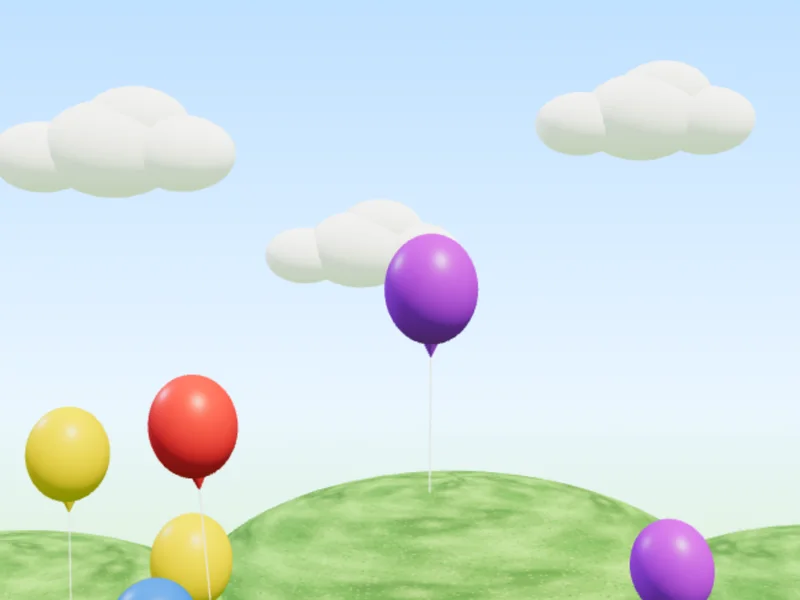
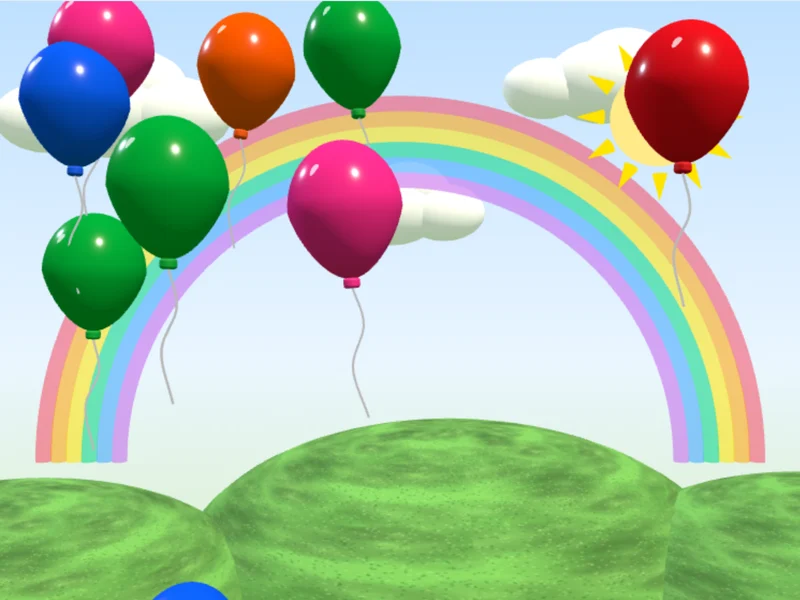
3D пішіндер, шарлар, артығын анықта, пішіндер қаласы: қанық түстер, жаңа модельдер
Claude-Session: https://claude.ai/code/session_01JwVscDKs5Ms9sQhpVNECAf

diff --git a/games.html b/games.html
@@ -1005,17 +1005,20 @@ function clouds(S, list) { const T = S.T, m = new T.MeshStandardMaterial({ color
   list.forEach(([x, y, z], i) => { const c = new T.Group(); [[0, 0, 0, .9], [.9, -.1, .1, .7], [-.9, -.15, 0, .65], [.3, .45, 0, .7]].forEach(([a, b, d, r]) => { const s = new T.Mesh(new T.SphereGeometry(r, 18, 12), m); s.position.set(a, b, d); c.add(s); }); c.position.set(x, y, z); c.scale.set(1.3, .9, .9); S.scene.add(c); const x0 = x, ph = i * 2;
     S.anim(() => { c.position.x = x0 + Math.sin(performance.now() / 6000 + ph) * 1.2; }); }); }
 function rnd0(a, b) { return a + Math.random() * (b - a); }
+
+function bevCyl(T, r, h, b = .07) { const pts = [new T.Vector2(0, -h / 2)]; for (let i = 0; i <= 6; i++) { const a = -Math.PI / 2 + i / 6 * Math.PI / 2; pts.push(new T.Vector2(r - b + Math.cos(a) * b, -h / 2 + b + Math.sin(a) * b)); } for (let i = 0; i <= 6; i++) { const a = i / 6 * Math.PI / 2; pts.push(new T.Vector2(r - b + Math.cos(a) * b, h / 2 - b + Math.sin(a) * b)); } pts.push(new T.Vector2(0, h / 2)); return new T.LatheGeometry(pts, 64); }
+function bevCone(T, r, h, seg, b = .06) { const pts = [new T.Vector2(0, -h / 2)]; for (let i = 0; i <= 6; i++) { const a = -Math.PI / 2 + i / 6 * Math.PI * .62; pts.push(new T.Vector2(r - b + Math.cos(a) * b, -h / 2 + b + Math.sin(a) * b)); } pts.push(new T.Vector2(.035, h / 2 - .03), new T.Vector2(0, h / 2)); const g = new T.LatheGeometry(pts, seg); if (seg === 4) g.rotateY(Math.PI / 4); g.computeVertexNormals(); return g; }
 function make3D(host, opts = {}) {
   if (!window.THREE) { host.append(el('div', { class: 'nogl' }, '3D бұл құрылғыда ашылмады 😔')); return null; }
   const T = THREE; let renderer;
   try { renderer = new T.WebGLRenderer({ antialias: true, alpha: true, powerPreference: 'high-performance' }); } catch (e) { host.append(el('div', { class: 'nogl' }, '3D бұл құрылғыда ашылмады 😔')); return null; }
   renderer.setPixelRatio(Math.min(devicePixelRatio || 1, LQ ? 1 : 2)); renderer.shadowMap.enabled = !LQ; renderer.shadowMap.type = T.PCFSoftShadowMap;
-  renderer.outputEncoding = T.sRGBEncoding; renderer.toneMapping = T.ACESFilmicToneMapping; renderer.toneMappingExposure = 1.08;
+  renderer.outputEncoding = T.sRGBEncoding; if (opts.vivid) { renderer.toneMapping = T.NoToneMapping; } else { renderer.toneMapping = T.ACESFilmicToneMapping; renderer.toneMappingExposure = 1.08; }
   host.append(renderer.domElement);
   const scene = new T.Scene(); if (!LQ) scene.environment = envMap(T, renderer);
   const cam = new T.PerspectiveCamera(opts.fov || 40, 1, .1, 120); cam.position.set(...(opts.cam || [0, 3.2, 7.5])); cam.lookAt(...(opts.look || [0, 1, 0]));
-  scene.add(new T.HemisphereLight(lin(T, 0xeaf4ff), lin(T, 0x9ccf7c), .55));
-  const sun = new T.DirectionalLight(lin(T, 0xfff3dd), 1.15); sun.position.set(4, 9, 6); sun.castShadow = !LQ; sun.shadow.mapSize.set(2048, 2048); sun.shadow.bias = -.0004; sun.shadow.normalBias = .02; Object.assign(sun.shadow.camera, { left: -9, right: 9, top: 9, bottom: -9, near: 1, far: 30 }); scene.add(sun);
+  scene.add(new T.HemisphereLight(lin(T, 0xeaf4ff), lin(T, 0x9ccf7c), opts.vivid ? .42 : .55));
+  const sun = new T.DirectionalLight(lin(T, 0xfff3dd), opts.vivid ? .95 : 1.15); sun.position.set(4, 9, 6); sun.castShadow = !LQ; sun.shadow.mapSize.set(2048, 2048); sun.shadow.bias = -.0004; sun.shadow.normalBias = .02; Object.assign(sun.shadow.camera, { left: -9, right: 9, top: 9, bottom: -9, near: 1, far: 30 }); scene.add(sun);
   const fill = new T.DirectionalLight(lin(T, 0xcfe4ff), .35); fill.position.set(-6, 4, -3); scene.add(fill);
   if (!GRASS) GRASS = grassTex(T);
   const R = opts.groundR || 5;
@@ -1043,7 +1046,7 @@ function make3D(host, opts = {}) {
     const t = (now - t0) / 1000; if (intro < 1) { intro = Math.min(1, (now - introT) / 1100); placeCam(); }
     world.rotation.y += (rotY - world.rotation.y) * .15; world.rotation.x += (rotX - world.rotation.x) * .15;
     anims = anims.filter(a => a(t) !== false); renderer.render(scene, cam); requestAnimationFrame(loop); })(t0);
-  const mat = c => LQ ? new T.MeshStandardMaterial({ color: lin(T, c), roughness: .38, metalness: 0 }) : new T.MeshPhysicalMaterial({ color: lin(T, c), roughness: .3, metalness: 0, clearcoat: .7, clearcoatRoughness: .22, envMapIntensity: .9 });
+  const mat = c => LQ ? new T.MeshStandardMaterial({ color: lin(T, c), roughness: .38, metalness: 0 }) : opts.vivid ? new T.MeshPhysicalMaterial({ color: lin(T, c), roughness: .32, metalness: 0, clearcoat: 1, clearcoatRoughness: .06, envMapIntensity: .32 }) : new T.MeshPhysicalMaterial({ color: lin(T, c), roughness: .3, metalness: 0, clearcoat: .7, clearcoatRoughness: .22, envMapIntensity: .9 });
   const mesh = (geo, c, pos = [0, 0, 0]) => { const m = new T.Mesh(geo, mat(c)); m.position.set(...pos); m.castShadow = true; m.receiveShadow = true; return m; };
   const S = { T, scene, cam, world, mesh, mat, setPick: p => pick = p, tap: f => onTap = f, anim: f => anims.push(f), host, lin: c => lin(T, c), grass: (rep = 4) => { const t = GRASS.clone(); t.needsUpdate = true; t.repeat.set(rep, rep); return new T.MeshStandardMaterial({ color: 0xffffff, map: t, roughness: .95 }); } }; window._s3 = S;
   if (opts.ground !== false && opts.decor !== false) decorate(S, R);
@@ -1055,17 +1058,17 @@ const wiggle = (S, o) => { const st = performance.now(), r0 = o.rotation.z; S.an
 
 /* --- 3D пішіндерді тап --- */
 const SH3 = [
-  { k: 'sphere', l: 'Шар', acc: 'Шарды', g: T => new T.SphereGeometry(.55, 48, 32), y: .55 },
-  { k: 'cube', l: 'Текше', acc: 'Текшені', g: T => rbox(T, .95, .95, .95), y: .48 },
-  { k: 'cyl', l: 'Цилиндр', acc: 'Цилиндрді', g: T => new T.CylinderGeometry(.45, .45, 1.05, 48), y: .53 },
-  { k: 'cone', l: 'Конус', acc: 'Конусты', g: T => new T.ConeGeometry(.55, 1.15, 48), y: .58 },
-  { k: 'pyr', l: 'Пирамида', acc: 'Пирамиданы', g: T => new T.ConeGeometry(.72, 1.05, 4), y: .53 },
+  { k: 'sphere', l: 'Шар', acc: 'Шарды', g: T => new T.SphereGeometry(.55, 64, 48), y: .55 },
+  { k: 'cube', l: 'Текше', acc: 'Текшені', g: T => rbox(T, .95, .95, .95, .1), y: .48 },
+  { k: 'cyl', l: 'Цилиндр', acc: 'Цилиндрді', g: T => bevCyl(T, .45, 1.05), y: .53 },
+  { k: 'cone', l: 'Конус', acc: 'Конусты', g: T => bevCone(T, .55, 1.15, 64), y: .58 },
+  { k: 'pyr', l: 'Пирамида', acc: 'Пирамиданы', g: T => bevCone(T, .72, 1.05, 4), y: .53 },
 ];
-const C3 = [[0xef4444, 'Қызыл'], [0x3b82f6, 'Көк'], [0xfacc15, 'Сары'], [0x22c55e, 'Жасыл'], [0xa855f7, 'Күлгін']];
+const C3 = [[0xe8101e, 'Қызыл'], [0x0a5cff, 'Көк'], [0xffc400, 'Сары'], [0x00a83a, 'Жасыл'], [0x8a1fd6, 'Күлгін']];
 function g3Shapes() {
   const b = body(); const host = el('div', { class: 'c3' }, el('div', { class: 'hint3' }, '👆 Басып таңда · сүйреп айналдыр')); const m = el('div', { class: 'msg' }, '');
   const prog = el('div', { class: 'prog' }, el('i')); b.append(m, prog, host);
-  const S = make3D(host, { cam: [0, 2.7, 6.2], look: [0, .55, 0] }); if (!S) return; window._s3 = S;
+  const S = make3D(host, { cam: [0, 2.5, 6.0], look: [0, .6, 0], vivid: 1 }); if (!S) return; window._s3 = S;
   const R = 6; let r = 0, objs = [];
   function round() {
     prog.firstChild.style.width = (r / R * 100) + '%'; if (r >= R) { win('Пішіндерді жақсы білесің! 🔷'); return; }
@@ -1168,11 +1171,11 @@ const rootOf = o => { while (o && !(o.userData && o.userData.id) && o.parent) o 
 const rnd = (a, b) => a + Math.random() * (b - a);
 const pickOne = a => a[Math.random() * a.length | 0];
 const hex6 = c => '#' + c.toString(16).padStart(6, '0');
-const CL = [[0xef4444, 'Қызыл'], [0x3b82f6, 'Көк'], [0xfacc15, 'Сары'], [0x22c55e, 'Жасыл'], [0xa855f7, 'Күлгін'], [0xff7a1a, 'Қызғылт сары'], [0xff8ac2, 'Қызғылт']];
+const CL = [[0xe8101e, 'Қызыл'], [0x0a5cff, 'Көк'], [0xffc400, 'Сары'], [0x00a83a, 'Жасыл'], [0x8a1fd6, 'Күлгін'], [0xff5a00, 'Қызғылт сары'], [0xff2d95, 'Қызғылт']];
 const SHN = { sphere: ['Шар', 'шарды'], cube: ['Текше', 'текшені'], cyl: ['Цилиндр', 'цилиндрді'], cone: ['Конус', 'конусты'], pyr: ['Пирамида', 'пирамиданы'] };
 const SHK = Object.keys(SHN);
 const SHY = { sphere: .5, cube: .43, cyl: .48, cone: .5, pyr: .48 };
-function shapeGeo(T, k) { return ({ sphere: () => new T.SphereGeometry(.5, 40, 28), cube: () => rbox(T, .86, .86, .86), cyl: () => new T.CylinderGeometry(.42, .42, .96, 40), cone: () => new T.ConeGeometry(.5, 1, 40), pyr: () => new T.ConeGeometry(.64, .96, 4) })[k](); }
+function shapeGeo(T, k) { return ({ sphere: () => new T.SphereGeometry(.5, 64, 48), cube: () => rbox(T, .86, .86, .86, .09), cyl: () => bevCyl(T, .42, .96), cone: () => bevCone(T, .5, 1, 64), pyr: () => bevCone(T, .64, .96, 4) })[k](); }
 function toy(S, k, c, id) { const g = new S.T.Group(); const m = S.mesh(shapeGeo(S.T, k), c); m.position.y = SHY[k]; g.add(m); g.userData = { id: id || k, k, c }; return g; }
 function setColor(g, c) { g.traverse(o => { if (o.isMesh && !o.userData.keep) o.material.color.copy(new THREE.Color(c).convertSRGBToLinear()); }); g.userData.c = c; }
 function starGeo(T, r = .35) { const s = new T.Shape(); for (let i = 0; i < 10; i++) { const a = i / 10 * Math.PI * 2 - Math.PI / 2, rr = i % 2 ? r * .45 : r; const x = Math.cos(a) * rr, y = Math.sin(a) * rr; i ? s.lineTo(x, y) : s.moveTo(x, y); } return new T.ExtrudeGeometry(s, { depth: .14, bevelEnabled: true, bevelSize: .04, bevelThickness: .04, bevelSegments: 2 }); }
@@ -1186,12 +1189,13 @@ function popFx(S, pos, c) { const T = S.T; for (let i = 0; i < 10; i++) { const 
 
 /* ---------- 1. Түсін тап: шарларды жар ---------- */
 function g3Balloons() {
-  const b = body(); const U3 = stage3(b); const S = make3D(U3.host, { cam: [0, 2.4, 9], look: [0, 2.4, 0], rotate: false, ground: false }); if (!S) return; clouds(S, [[-6, 5.5, -6], [5, 6.5, -8], [0, 4.2, -10]]); [[-6, -4, 4, 0x7ccf6b], [1, -7, 5, 0x6fc257], [7, -4.5, 4, 0x86d575]].forEach(([x, z, r, c]) => { const h = S.mesh(new S.T.SphereGeometry(r, 32, 16, 0, Math.PI * 2, 0, Math.PI / 2), c, [x, -2.6, z]); h.scale.y = .5; h.material = S.grass(4); S.scene.add(h); });
+  const b = body(); const U3 = stage3(b); const S = make3D(U3.host, { cam: [0, 2.4, 7.6], look: [0, 2.3, 0], rotate: false, ground: false, vivid: 1 }); if (!S) return; skyDeco(S); clouds(S, [[-6, 5.5, -6], [5, 6.5, -8], [0, 4.2, -10]]); [[-6, -4, 4, 0x7ccf6b], [1, -7, 5, 0x6fc257], [7, -4.5, 4, 0x86d575]].forEach(([x, z, r, c]) => { const h = S.mesh(new S.T.SphereGeometry(r, 32, 16, 0, Math.PI * 2, 0, Math.PI / 2), c, [x, -2.6, z]); h.scale.y = .5; h.material = S.grass(4); S.scene.add(h); });
   const T = S.T, cols = CL.slice(0, byAge([3, 5, 7])), need = byAge([6, 9, 12]), alive = byAge([6, 8, 10]), spd = byAge([.75, .95, 1.15]); let got = 0, target = pickOne(cols), list = [], last = now3(), changeEvery = byAge([3, 3, 2]);
   const say = () => U3.say(target[1] + ' шарды жар! 🎈'); say();
-  function spawn(force) { const c = force || pickOne(cols); const g = new T.Group(); const ball = S.mesh(new T.SphereGeometry(.45, 32, 24), c[0]); ball.scale.set(1, 1.18, 1); const kn = S.mesh(new T.ConeGeometry(.08, .16, 12), c[0], [0, -.58, 0]); kn.rotation.x = Math.PI;
-    const str = new T.Mesh(new T.CylinderGeometry(.008, .008, 1.3, 4), new T.MeshBasicMaterial({ color: 0xffffff })); str.position.y = -1.3; str.userData.keep = 1; g.add(ball, kn, str);
-    g.position.set(rnd(-4.2, 4.2), rnd(-2.5, -1), rnd(-1.5, 1)); g.userData = { id: 'b', c, vy: rnd(.8, 1.2) * spd, ph: rnd(0, 6) }; S.world.add(g); list.push(g); S.setPick(list); }
+  function spawn(force) { const c = force || pickOne(cols); const g = new T.Group(); const bp = []; for (let q = 0; q <= 24; q++) { const a = q / 24 * Math.PI; const r = Math.sin(a) * .55 * (1 - .28 * Math.max(0, Math.cos(a))); bp.push(new T.Vector2(r, -Math.cos(a) * .66)); } const ball = S.mesh(new T.LatheGeometry(bp, 48), c[0]); ball.material.roughness = .18; const kn = S.mesh(bevCyl(T, .08, .1, .03), c[0], [0, -.7, 0]);
+    const hl = new T.Mesh(new T.SphereGeometry(.11, 16, 12), new T.MeshBasicMaterial({ color: 0xffffff, transparent: true, opacity: .75 })); hl.position.set(-.2, .25, .4); hl.scale.set(.7, 1.3, .3); hl.userData.keep = 1;
+    const cp = new T.CatmullRomCurve3([new T.Vector3(0, -.74, 0), new T.Vector3(.08, -1.1, 0), new T.Vector3(-.06, -1.5, 0), new T.Vector3(.05, -2, 0)]); const str = new T.Mesh(new T.TubeGeometry(cp, 20, .012, 6), new T.MeshBasicMaterial({ color: 0x7a7a7a })); str.userData.keep = 1; g.add(ball, kn, hl, str);
+    g.position.set(rnd(-3.6, 3.6), rnd(-2.5, -1), rnd(-1.2, .8)); g.userData = { id: 'b', c, vy: rnd(.8, 1.2) * spd, ph: rnd(0, 6) }; S.world.add(g); list.push(g); S.setPick(list); }
   for (let i = 0; i < alive; i++) { spawn(i === 0 ? target : null); list[i].position.y = rnd(-1, 4); }
   S.anim(() => { const t = now3(), dt = Math.min(.05, (t - last) / 1000); last = t;
     list.forEach(g => { g.position.y += g.userData.vy * dt; g.position.x += Math.sin(t / 700 + g.userData.ph) * .004; g.rotation.z = Math.sin(t / 900 + g.userData.ph) * .1; });
@@ -1208,7 +1212,7 @@ function g3Balloons() {
 
 /* ---------- 2. Артығын анықта ---------- */
 function g3Odd() {
-  const b = body(); const U3 = stage3(b); const S = make3D(U3.host, { cam: [0, 2.6, 6.6], look: [0, .6, 0] }); if (!S) return;
+  const b = body(); const U3 = stage3(b); const S = make3D(U3.host, { cam: [0, 2.4, 6.2], look: [0, .6, 0], vivid: 1 }); if (!S) return;
   const R = 8; let r = 0;
   function gen() { const n = byAge([4, 4, 5]); const types = AGE === 0 ? ['color', 'shape'] : AGE === 1 ? ['shape2', 'color2'] : ['shape2', 'color2', 'size'];
     const t = pickOne(types); const ks = shuffle(SHK), cs = shuffle(CL.slice(0, 5)); let items = [], odd, why;
@@ -1228,18 +1232,34 @@ function g3Odd() {
 
 /* ---------- 3. Пішіндер қаласы: санап көр ---------- */
 function cityObj(S, kind) { const T = S.T, g = new T.Group(); g.userData = { id: kind };
-  if (kind === 'house') { const c = pickOne([0xff8a65, 0x64b5f6, 0xffd54f, 0x81c784, 0xba68c8]); g.add(S.mesh(rbox(T, .8, .7, .8), c, [0, .35, 0])); const rf = S.mesh(new T.ConeGeometry(.66, .5, 4), 0xd84315, [0, .95, 0]); rf.rotation.y = Math.PI / 4; g.add(rf); g.add(S.mesh(rbox(T, .22, .36, .04), 0x6d4c41, [0, .18, .41])); }
-  if (kind === 'tree') { g.add(S.mesh(new T.CylinderGeometry(.09, .12, .5, 12), 0x8d5a34, [0, .25, 0]), S.mesh(new T.ConeGeometry(.42, .9, 20), 0x2e9e4f, [0, .85, 0])); }
-  if (kind === 'car') { const c = pickOne([0xef4444, 0x3b82f6, 0xfacc15, 0xa855f7]); g.add(S.mesh(rbox(T, .9, .3, .5), c, [0, .28, 0]), S.mesh(rbox(T, .5, .25, .46), c, [-.05, .55, 0])); [[-.28, .26], [.28, .26], [-.28, -.26], [.28, -.26]].forEach(([x, z]) => { const w = S.mesh(new T.CylinderGeometry(.12, .12, .08, 16), 0x222222, [x, .12, z]); w.rotation.x = Math.PI / 2; g.add(w); }); }
+  if (kind === 'house') { const c = pickOne([0xff7043, 0x29b6f6, 0xffca28, 0x66bb6a, 0xab47bc, 0xf06292]); const rc = pickOne([0xd32f2f, 0x1565c0, 0x6d4c41, 0x2e7d32]);
+    g.add(S.mesh(rbox(T, .85, .7, .8, .05), c, [0, .35, 0]));
+    const tri = new T.Shape(); tri.moveTo(-.55, 0); tri.lineTo(.55, 0); tri.lineTo(0, .45); tri.lineTo(-.55, 0); const rg = new T.ExtrudeGeometry(tri, { depth: .9, bevelEnabled: true, bevelSize: .03, bevelThickness: .03, bevelSegments: 2 }); rg.translate(0, 0, -.45); const rf = S.mesh(rg, rc, [0, .7, 0]); g.add(rf);
+    g.add(S.mesh(rbox(T, .12, .3, .12, .02), 0x8d6e63, [.25, 1.0, -.15]));
+    g.add(S.mesh(rbox(T, .2, .32, .04, .02), 0x6d4c41, [0, .17, .41]));
+    const wm = new T.MeshPhysicalMaterial({ color: 0xbfe9ff, emissive: 0x6ac8ff, emissiveIntensity: .35, roughness: .1, clearcoat: 1 });
+    [-.27, .27].forEach(x => { const w = new T.Mesh(rbox(T, .17, .17, .03, .02), wm); w.position.set(x, .45, .41); w.userData.keep = 1; g.add(w); const f = S.mesh(rbox(T, .2, .03, .05, .01), 0xffffff, [x, .36, .42]); f.userData.keep = 1; g.add(f); }); }
+  if (kind === 'tree') { g.add(S.mesh(bevCyl(T, .08, .45, .02), 0x8d5a34, [0, .22, 0]));
+    if (Math.random() < .5) { [[.42, .55, .62], [.33, .48, .92], [.22, .4, 1.18]].forEach(([r, h, y]) => g.add(S.mesh(bevCone(T, r, h, 24, .04), 0x1f9e45, [0, y, 0]))); }
+    else { g.add(sph(S, .36, 0x2fb34f, [0, .78, 0]), sph(S, .26, 0x45c463, [.18, .95, .05]), sph(S, .24, 0x27a043, [-.17, .92, -.05])); } }
+  if (kind === 'car') { const c = pickOne([0xe8101e, 0x0a5cff, 0xffc400, 0x8a1fd6, 0xff5a00]);
+    g.add(S.mesh(rbox(T, .95, .28, .5, .08), c, [0, .27, 0]), S.mesh(rbox(T, .52, .26, .46, .08), c, [-.06, .5, 0]));
+    const gm = new T.MeshPhysicalMaterial({ color: 0x9fdcff, roughness: .05, clearcoat: 1, emissive: 0x3aa0e0, emissiveIntensity: .2 }); const gl = new T.Mesh(rbox(T, .5, .18, .48, .05), gm); gl.position.set(-.06, .52, 0); gl.userData.keep = 1; g.add(gl);
+    [[-.3, .25], [.3, .25], [-.3, -.25], [.3, -.25]].forEach(([x, z]) => { const w = S.mesh(bevCyl(T, .13, .1, .03), 0x222222, [x, .13, z]); w.rotation.x = Math.PI / 2; w.userData.keep = 1; g.add(w); const h = S.mesh(bevCyl(T, .06, .11, .02), 0xdddddd, [x, .13, z]); h.rotation.x = Math.PI / 2; h.userData.keep = 1; g.add(h); });
+    [-.15, .15].forEach(z => { const l = new T.Mesh(new T.SphereGeometry(.045, 12, 8), new T.MeshBasicMaterial({ color: 0xfff3b0 })); l.position.set(.48, .3, z); l.userData.keep = 1; g.add(l); }); }
   return g; }
+function cityGround(S) { const T = S.T; const G = new T.Group(); S.world.add(G); S._city = G; const rd = new T.MeshStandardMaterial({ color: 0x6f7884, roughness: .9 }); [[0, 0, 9.5, .7], [0, 0, .7, 9.5]].forEach(([x, z, w, d]) => { const m = new T.Mesh(new T.BoxGeometry(w, .02, d), rd); m.position.set(x, .01, z); m.receiveShadow = true; G.add(m); });
+  const dm = new T.MeshBasicMaterial({ color: 0xffffff }); for (let i = -4; i <= 4; i++) { if (!i) continue; const a = new T.Mesh(new T.BoxGeometry(.4, .025, .06), dm); a.position.set(i, .02, 0); G.add(a); const b = new T.Mesh(new T.BoxGeometry(.06, .025, .4), dm); b.position.set(0, .02, i); G.add(b); } }
+function skyDeco(S) { const T = S.T; const cols = [0xe8101e, 0xff5a00, 0xffc400, 0x00a83a, 0x0a5cff, 0x8a1fd6]; cols.forEach((c, i) => { const m = new T.Mesh(new T.TorusGeometry(7.5 - i * .32, .16, 10, 80, Math.PI), new T.MeshBasicMaterial({ color: c, transparent: true, opacity: .55 })); m.position.set(0, -1.2, -9); S.scene.add(m); });
+  const sun = new T.Mesh(new T.SphereGeometry(.9, 32, 20), new T.MeshBasicMaterial({ color: 0xffd23f })); sun.position.set(4.8, 5.6, -7); S.scene.add(sun); for (let i = 0; i < 12; i++) { const r = new T.Mesh(new T.ConeGeometry(.14, .5, 8), new T.MeshBasicMaterial({ color: 0xffc400 })); const a = i / 12 * Math.PI * 2; r.position.set(4.8 + Math.cos(a) * 1.3, 5.6 + Math.sin(a) * 1.3, -7); r.rotation.z = a - Math.PI / 2; S.scene.add(r); } }
 const CITY = { house: ['үй', 'Неше үй бар?'], tree: ['ағаш', 'Неше ағаш бар?'], car: ['машина', 'Неше машина бар?'] };
 function g3Count() {
-  const b = body(); const nums = el('div', { class: 'pal3' }); const U3 = stage3(b); b.append(nums); const S = make3D(U3.host, { cam: [0, 4.6, 6.8], look: [0, .2, 0], groundR: 5.5 }); if (!S) return;
+  const b = body(); const nums = el('div', { class: 'pal3' }); const U3 = stage3(b); b.append(nums); const S = make3D(U3.host, { cam: [0, 4.4, 6.3], look: [0, .1, .2], groundR: 5.5, vivid: 1 }); if (!S) return; cityGround(S);
   const R = 6; let r = 0;
-  function round() { U3.progress(r / R); if (r >= R) { win('Санауды жақсы білесің! 🔢'); return; } clearWorld(S); nums.innerHTML = '';
+  function round() { U3.progress(r / R); if (r >= R) { win('Санауды жақсы білесің! 🔢'); return; } clearWorld(S, [S._city]); nums.innerHTML = '';
     const kinds = shuffle(Object.keys(CITY)); const tk = kinds[0]; const n = AGE === 0 ? 1 + (Math.random() * 3 | 0) : AGE === 1 ? 1 + (Math.random() * 5 | 0) : 3 + (Math.random() * 7 | 0);
     const extra = AGE === 0 ? 0 : AGE === 1 ? (Math.random() * 3 | 0) : 2 + (Math.random() * 3 | 0);
-    const cells = shuffle([...Array(24).keys()]).map(i => [(i % 6 - 2.5) * 1.15, ((i / 6 | 0) - 1.5) * 1.15]);
+    const cells = shuffle([...Array(24).keys()]).map(i => [(i % 6 - 2.5) * 1.2, ((i / 6 | 0) - 1.5) * 1.25]);
     const objs = []; [...Array(n).fill(tk), ...[...Array(extra)].map(() => pickOne(kinds.slice(1)))].forEach((k, i) => { const g = cityObj(S, k); const [x, z] = cells[i]; g.position.set(x + rnd(-.15, .15), 0, z + rnd(-.15, .15)); g.rotation.y = rnd(-.6, .6); g.scale.setScalar(.01); S.world.add(g); objs.push(g); setTimeout(() => tw(S, 350, kk => g.scale.setScalar(ease(kk))), i * 120); });
     U3.say(CITY[tk][1] + ' 🏙');
     const opts = AGE === 0 ? [1, 2, 3] : AGE === 1 ? [1, 2, 3, 4, 5] : shuffle([n, ...shuffle([...Array(10).keys()].map(x => x + 1).filter(x => x !== n)).slice(0, 3)]).sort((a, b) => a - b);
